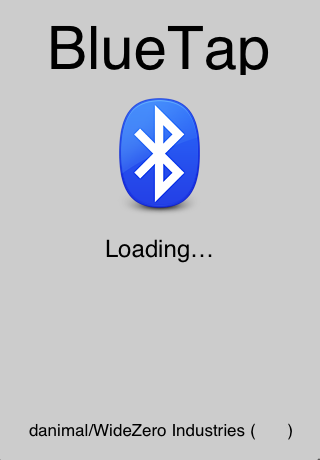
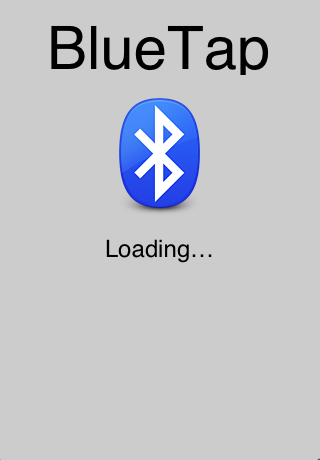
make sure everything is checked in

Changed region(s): [[0.0938, 0.913, 0.8125, 0.9739], [0.9062, 0.913, 0.9375, 0.9435]]

diff --git a/BlueTap/Classes/BlueTapAppDelegate.m b/BlueTap/Classes/BlueTapAppDelegate.m
@@ -18,7 +18,7 @@
 
 - (void)applicationDidFinishLaunching:(UIApplication *)application 
 {   
-    [tagLabel setText:[NSString stringWithFormat:@"danimal/WideZero Industries (%@%@)", [[NSBundle mainBundle] objectForInfoDictionaryKey:@"CFBundleShortVersionString"], [[NSBundle mainBundle] objectForInfoDictionaryKey:@"CFBundleVersion"]]];
+    [tagLabel setText:[NSString stringWithFormat:@"WideZero Industries (%@%@)", [[NSBundle mainBundle] objectForInfoDictionaryKey:@"CFBundleShortVersionString"], [[NSBundle mainBundle] objectForInfoDictionaryKey:@"CFBundleVersion"]]];
     btSharedInstance = [BluetoothManager sharedInstance];
     [self switchBluetoothStatus];
     // Override point for customization after application launch
